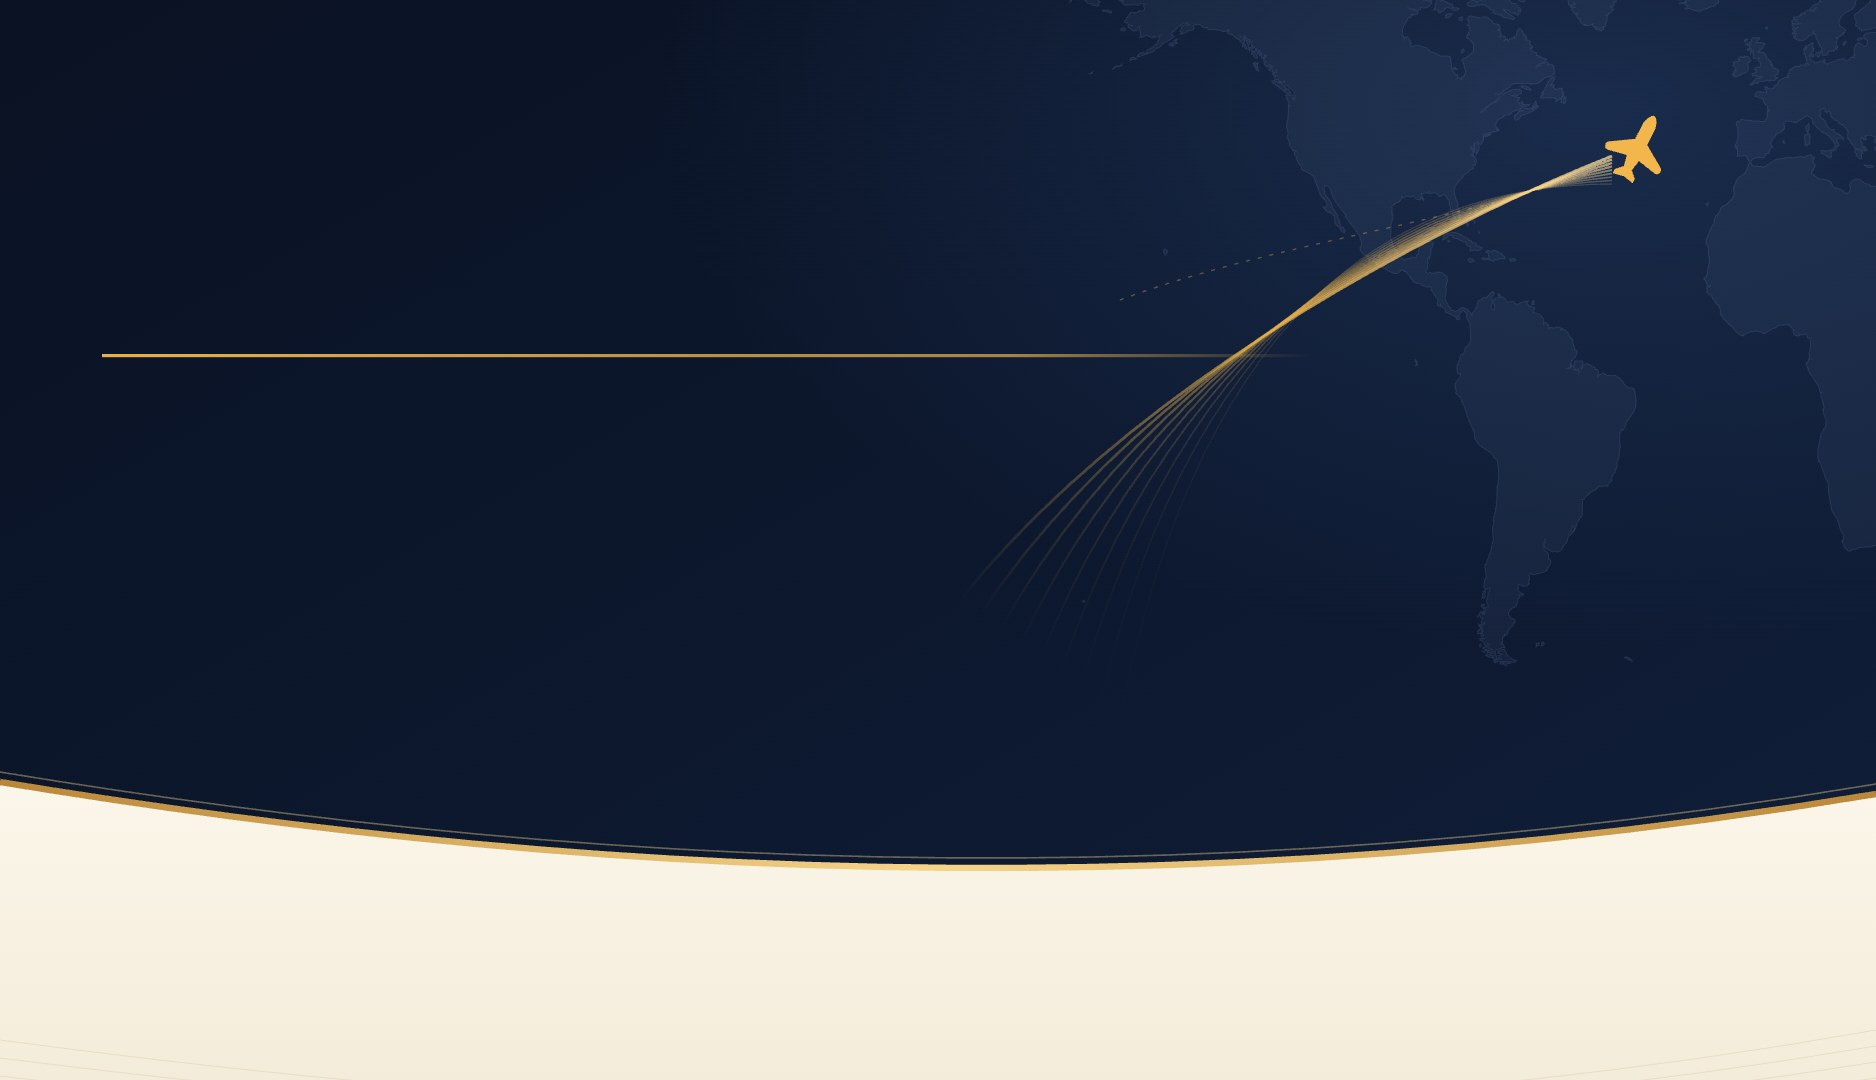
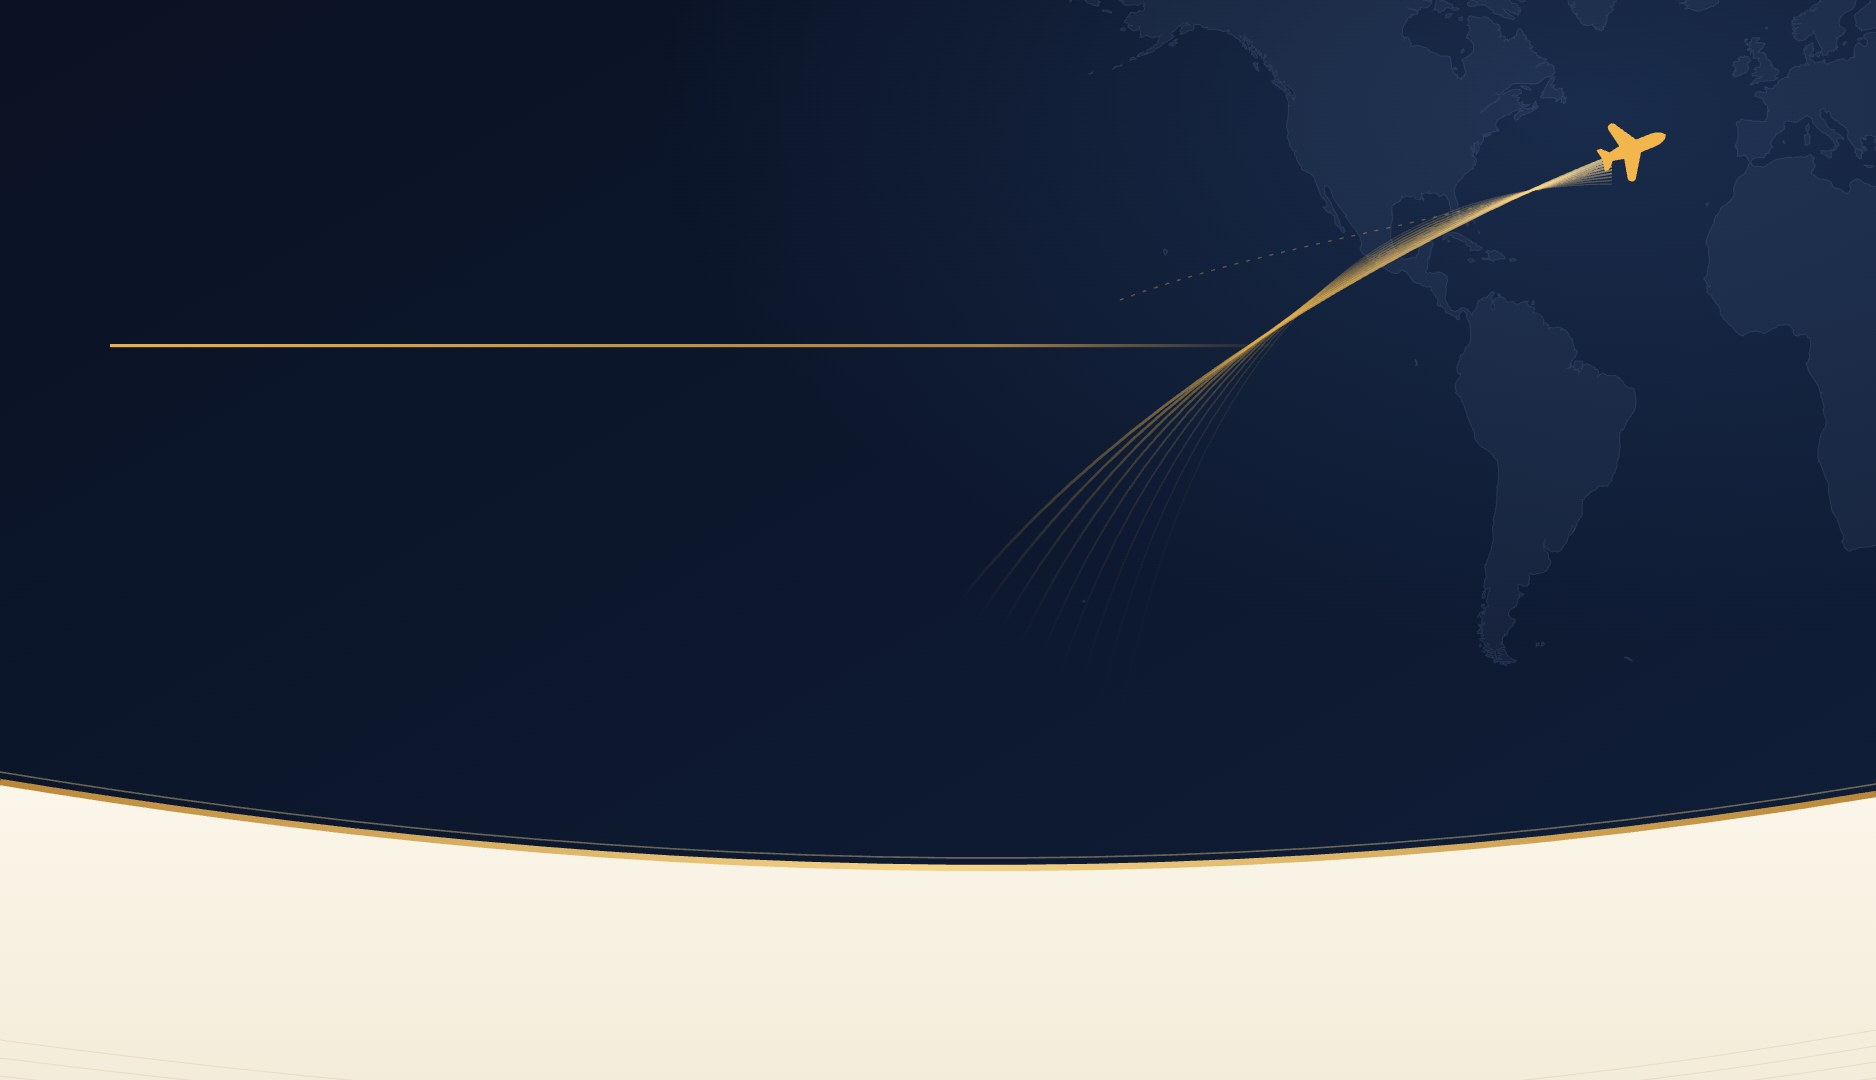
latest ui

Changed region(s): [[0.0618, 0.3056, 0.6493, 0.3361], [0.8348, 0.0917, 0.8966, 0.1833]]

diff --git a/BrightP/src/portal/portal.css b/BrightP/src/portal/portal.css
@@ -1145,18 +1145,6 @@
 .bwc-l-valid { left: calc(var(--u) * 67.9); top: calc(var(--u) * 42.7); font-size: calc(var(--u) * 1.6); letter-spacing: 0.26em; }
 .bwc-valid { left: calc(var(--u) * 67.9); top: calc(var(--u) * 45.2); font-size: calc(var(--u) * 3.9); line-height: 1; letter-spacing: 0.02em; font-variant-numeric: lining-nums; }
 
-.bwc-heading { left: calc(var(--u) * 5.1); top: calc(var(--u) * 19.2); font: 700 calc(var(--u) * 4)/1.1 'Source Serif 4', Georgia, serif; letter-spacing: 0.015em; color: #ecbe62; white-space: nowrap; }
-.bwc-ben { top: calc(var(--u) * 26.2); text-align: center; font-family: 'Source Serif 4', Georgia, serif; }
-.bwc-ben span { display: block; width: calc(var(--u) * 5.4); height: calc(var(--u) * 5.4); margin: 0 auto calc(var(--u) * 1.4); color: #e8b04a; }
-.bwc-ben span svg { width: 100%; height: 100%; }
-.bwc-ben b { display: block; font: 500 calc(var(--u) * 2.2)/1.15 'Source Serif 4', Georgia, serif; color: #fff; white-space: nowrap; }
-.bwc-ben small { display: block; margin-top: calc(var(--u) * 0.15); font: 400 calc(var(--u) * 1.7)/1.2 'Source Serif 4', Georgia, serif; color: #cfd4df; white-space: nowrap; }
-.bwc-ben.b0 { left: calc(var(--u) * 5.1); width: calc(var(--u) * 17.5); } .bwc-ben.b1 { left: calc(var(--u) * 22.6); width: calc(var(--u) * 21.7); } .bwc-ben.b2 { left: calc(var(--u) * 44.3); width: calc(var(--u) * 21.2); }
-.bwc-div { top: calc(var(--u) * 26.6); width: calc(var(--u) * 0.1); min-width: 1px; height: calc(var(--u) * 12.2); background: linear-gradient(180deg, transparent, #c9953e 20%, #c9953e 80%, transparent); }
-.bwc-div.d1 { left: calc(var(--u) * 22.6); } .bwc-div.d2 { left: calc(var(--u) * 44.3); }
-.bwc-qr { left: calc(var(--u) * 70.2); top: calc(var(--u) * 16.4); width: calc(var(--u) * 20.5); height: calc(var(--u) * 20.5); padding: calc(var(--u) * 1.5); border-radius: calc(var(--u) * 2.8); background: #fff; display: grid; place-items: center; box-shadow: 0 calc(var(--u) * 0.4) calc(var(--u) * 1.6) rgba(0, 0, 0, 0.25); }
-.bwc-qr img { width: 100%; height: 100%; display: block; image-rendering: pixelated; }
-.bwc-scan { left: calc(var(--u) * 67.4); width: calc(var(--u) * 26); white-space: nowrap; top: calc(var(--u) * 38.4); text-align: center; font: 400 calc(var(--u) * 1.75)/1.2 'Source Serif 4', Georgia, serif; color: #fff; }
 .bwc-dash { left: calc(var(--u) * 44.7); top: calc(var(--u) * 46.4); width: calc(var(--u) * 4.6); height: calc(var(--u) * 0.22); background: #d29f48; }
 .bwc-help { left: 0; right: 0; top: calc(var(--u) * 48.2); text-align: center; font: 400 calc(var(--u) * 2.4)/1.2 'Source Serif 4', Georgia, serif; color: #12233f; }
 @media (max-width: 420px) { .bwc { border-radius: calc(var(--u) * 2.4); } }
@@ -1186,3 +1174,28 @@
 .dh-trip-info span { font-size: 13.5px; color: var(--pt-muted); }
 .dh-trip-end { display: flex; align-items: center; gap: 10px; color: var(--pt-muted); }
 @media (max-width: 1100px) { .dh-trip-row { grid-template-columns: 96px minmax(0, 1fr); } .dh-trip-end { grid-column: 2; } }
+
+/* ---- flip card (Home) ---- */
+.bwc-flip { position: relative; perspective: 1600px; }
+.bwc-flip-inner { position: relative; transform-style: preserve-3d; transition: transform 0.7s cubic-bezier(0.4, 0.2, 0.2, 1); cursor: pointer; }
+.bwc-flip.flipped .bwc-flip-inner { transform: rotateY(180deg); }
+.bwc-flip-face { -webkit-backface-visibility: hidden; backface-visibility: hidden; }
+.bwc-flip-back { position: absolute; inset: 0; transform: rotateY(180deg); }
+.bwc-flip-back .bwc { height: 100%; }
+.bwc-flip-btn { position: absolute; right: 10px; top: 10px; z-index: 5; display: inline-flex; align-items: center; gap: 6px; padding: 7px 12px; border-radius: 999px; border: 1px solid rgba(255, 255, 255, 0.35); background: rgba(10, 24, 48, 0.72); color: #fff; font: 600 12px var(--font-family-base, sans-serif); cursor: pointer; backdrop-filter: blur(6px); }
+.bwc-flip-btn:hover { background: rgba(10, 24, 48, 0.9); }
+.bwc-flip-btn:focus-visible { outline: 2px solid var(--pt-gold); outline-offset: 2px; }
+@media (prefers-reduced-motion: reduce) { .bwc-flip-inner { transition: none; } }
+
+/* ---- membership card back: a strict grid so columns, dividers, QR and caption line up ---- */
+.bwc-heading { left: calc(var(--u) * 5.5); top: calc(var(--u) * 18.4); font: 700 calc(var(--u) * 4)/1.1 'Source Serif 4', Georgia, serif; letter-spacing: 0.015em; color: #ecbe62; white-space: nowrap; }
+.bwc-bens { left: calc(var(--u) * 5.5); top: calc(var(--u) * 25.2); width: calc(var(--u) * 58.5); display: grid; grid-template-columns: repeat(3, 1fr); text-align: center; font-family: 'Source Serif 4', Georgia, serif; }
+.bwc-ben { padding: 0 calc(var(--u) * 0.8); display: flex; flex-direction: column; align-items: center; }
+.bwc-ben + .bwc-ben { border-left: 1px solid rgba(201, 149, 62, 0.6); }
+.bwc-ben span { display: block; width: calc(var(--u) * 5); height: calc(var(--u) * 5); margin-bottom: calc(var(--u) * 1.3); color: #e8b04a; }
+.bwc-ben span svg { width: 100%; height: 100%; }
+.bwc-ben b { display: block; font: 500 calc(var(--u) * 2.05)/1.2 'Source Serif 4', Georgia, serif; color: #fff; white-space: nowrap; }
+.bwc-ben small { display: block; margin-top: calc(var(--u) * 0.3); font: 400 calc(var(--u) * 1.6)/1.2 'Source Serif 4', Georgia, serif; color: #cfd4df; white-space: nowrap; }
+.bwc-qr { left: calc(var(--u) * 69.3); top: calc(var(--u) * 16); width: calc(var(--u) * 19); height: calc(var(--u) * 19); padding: calc(var(--u) * 1.4); border-radius: calc(var(--u) * 2.6); background: #fff; display: grid; place-items: center; box-shadow: 0 calc(var(--u) * 0.4) calc(var(--u) * 1.6) rgba(0, 0, 0, 0.25); }
+.bwc-qr img { width: 100%; height: 100%; display: block; image-rendering: pixelated; }
+.bwc-scan { left: calc(var(--u) * 66.3); width: calc(var(--u) * 25); top: calc(var(--u) * 36.1); text-align: center; white-space: nowrap; font: 400 calc(var(--u) * 1.55)/1.2 'Source Serif 4', Georgia, serif; color: #fff; }

diff --git a/BrightP/src/portal/MembershipCard.js b/BrightP/src/portal/MembershipCard.js
@@ -1,13 +1,13 @@
 import React, { useEffect, useLayoutEffect, useRef, useState } from 'react';
 import QRCode from 'qrcode';
 import { toPng } from 'html-to-image';
-import { Database, Plane, Star } from 'lucide-react';
+import { Database, Plane, RefreshCw, Star } from 'lucide-react';
 import BrightLogo from '../assets/BrightLogo.png';
 import frontArt from '../assets/card-front.jpg';
 import backArt from '../assets/card-back.jpg';
 
 /*
- * Bright Wings membership card, front and back. Everything on it comes from the member record
+ * Bright Wings membership car, front and back. Everything on it comes from the member record
  * (/loyalty/summary → card): name, membership code, tier and validity; the QR code points at the
  * public verification page (/card/<code>). Sizes are in em with 1 unit (--u) = 1/93.8 of the card width, so the
  * card scales to any container (and downloadCardImage captures it exactly as shown).
@@ -28,12 +28,6 @@ function useCardFontSize(ref) {
     return () => ro.disconnect();
   }, [ref]);
   return size;
-}
-
-/** "AA0SLV1752" → "AA0 SLV 1752" (initials+age, tier code, 4-digit number). */
-export function formatMemberCode(code = '') {
-  const m = /^(.*?)([A-Z]{3})(\d{4})$/.exec(code);
-  return m && m[1] ? `${m[1]} ${m[2]} ${m[3]}` : code;
 }
 
 export const formatValidThru = (date) => {
@@ -60,10 +54,10 @@ export function CardFront({ name, code, tier = 'Member', validUntil }) {
       <small className="bwc-label bwc-l-name">MEMBER NAME</small>
       <div className="bwc-name">{name || '—'}</div>
       <small className="bwc-label bwc-l-code">MEMBERSHIP CODE</small>
-      <div className="bwc-code">{formatMemberCode(code) || '—'}</div>
+      <div className="bwc-code">{code || '—'}</div>
       <i className="bwc-rule" />
       <div className="bwc-tier">{tier === 'Member' ? 'MEMBER' : `${String(tier).toUpperCase()} MEMBER`}</div>
-      <small className="bwc-label bwc-l-valid">VALID THRU</small>
+      <small className="bwc-label bwc-l-valid">VALID TO</small>
       <div className="bwc-valid">{formatValidThru(validUntil)}</div>
     </div>
   );
@@ -87,14 +81,15 @@ export function CardBack({ code }) {
     <div ref={ref} className="bwc bwc-back" style={{ backgroundImage: `url(${backArt})`, '--u': size ? `${size}px` : undefined }} role="img" aria-label="Bright Wings membership benefits and verification QR code">
       <Brand className="back" />
       <h3 className="bwc-heading">MEMBERSHIP BENEFITS</h3>
-      {BENEFITS.map(([Icon, title, sub], i) => (
-        <div key={title} className={`bwc-ben b${i}`}>
-          <span><Icon size="100%" strokeWidth={1.35} /></span>
-          <b>{title}</b>
-          <small>{sub}</small>
-        </div>
-      ))}
-      <i className="bwc-div d1" /><i className="bwc-div d2" />
+      <div className="bwc-bens">
+        {BENEFITS.map(([Icon, title, sub]) => (
+          <div key={title} className="bwc-ben">
+            <span><Icon size="100%" strokeWidth={1.35} /></span>
+            <b>{title}</b>
+            <small>{sub}</small>
+          </div>
+        ))}
+      </div>
       <div className="bwc-qr">{qr ? <img src={qr} alt="Membership QR code" /> : null}</div>
       <small className="bwc-scan">Scan to verify membership</small>
       <i className="bwc-dash" />
@@ -123,4 +118,21 @@ export async function downloadCardImage(node, filename) {
   a.href = url;
   a.download = filename;
   a.click();
+}
+
+/** Front and back of the card in one place, with a button that turns it over (used on the Home page). */
+export function FlippableCard({ name, code, tier, validUntil, onOpen }) {
+  const [flipped, setFlipped] = useState(false);
+  return (
+    <div className={`bwc-flip ${flipped ? 'flipped' : ''}`}>
+      <div className="bwc-flip-inner" onClick={onOpen} role={onOpen ? 'link' : undefined} tabIndex={onOpen ? 0 : undefined}
+        onKeyDown={onOpen ? (e) => { if (e.key === 'Enter') onOpen(); } : undefined} aria-label={onOpen ? 'Open membership card' : undefined}>
+        <div className="bwc-flip-face" aria-hidden={flipped}><CardFront name={name} code={code} tier={tier} validUntil={validUntil} /></div>
+        <div className="bwc-flip-face bwc-flip-back" aria-hidden={!flipped}><CardBack code={code} /></div>
+      </div>
+      <button type="button" className="bwc-flip-btn" aria-pressed={flipped} onClick={(e) => { e.stopPropagation(); setFlipped((f) => !f); }}>
+        <RefreshCw size={15} /> {flipped ? 'Show front' : 'Flip card'}
+      </button>
+    </div>
+  );
 }

diff --git a/BrightP/src/portal/desktop/Home.js b/BrightP/src/portal/desktop/Home.js
@@ -7,7 +7,7 @@ import { api } from '../../services/api';
 import { Badge, Page, Progress, Shell, Skeleton, bg, fmtDate, fmtNum, memberName, useAsync, tierTitle } from '../ui';
 import { PHOTO, photoFor } from '../photos';
 import { bookingTitle, isPast, serviceOf, statusMeta } from '../booking';
-import { MemberCardFace } from '../customer/parts';
+import { FlippableMemberCard } from '../customer/parts';
 import { OffersStrip } from '../customer/Offers';
 import { fmtRange } from './common';
 
@@ -80,14 +80,14 @@ export default function DeskHome() {
               <div className="pt-row between pt-small" style={{ marginTop: 10, color: 'var(--pt-navy)', fontWeight: 600 }}><span>{fmtNum(lifetime)} Wings</span>{tier.next_threshold && <span>{fmtNum(tier.next_threshold)} Wings</span>}</div></div>
           </div>
 
-          <button type="button" className="dh-card-link" onClick={() => navigate('/membership')} aria-label="Open membership card">
-            <MemberCardFace name={summary?.card?.name || name} code={summary?.card?.membership_code || userData?.membershipCode} tier={tier.current} validUntil={summary?.card?.valid_until} />
-          </button>
+          <div className="dh-card-link">
+            <FlippableMemberCard name={summary?.card?.name || name} code={summary?.card?.membership_code || userData?.membershipCode} tier={tier.current} validUntil={summary?.card?.valid_until} onOpen={() => navigate('/membership')} />
+          </div>
         </section>
 
         <section className="dh-row2">
           <div className="pt-card dh-trip">
-            <div className="pt-row between"><h2 className="dh-sec"><Plane size={20} /> {trips.length ? 'Your trips' : 'Your next trip'}</h2>{trips.length > 0 && <button type="button" className="dh-more" onClick={() => navigate('/bookings')}>View all bookings <ChevronRight size={14} /></button>}</div>
+            <div className="pt-row between"><h2 className="dh-sec"><Plane size={20} /> {trips.length ? 'Your trips' : 'Your next trip'}</h2>{trips.length > 0 && <span className="pt-row" style={{ gap: 14 }}><button type="button" className="dh-more" onClick={() => navigate('/bookings')}>View all bookings <ChevronRight size={14} /></button><button type="button" className="pt-gold-btn sm" onClick={() => navigate('/bookings/new')}>Request new travel</button></span>}</div>
             {trips.length ? (
               <ul className="dh-trips">
                 {trips.map((b) => {
@@ -113,7 +113,7 @@ export default function DeskHome() {
                 })}
               </ul>
             ) : (
-              <div className="dh-empty"><p>No trips yet. Request your first quote in a couple of minutes.</p><button type="button" className="pt-gold-btn sm" onClick={() => navigate('/bookings/new')}>Request trip</button></div>
+              <div className="dh-empty"><p>No trips yet. Request your first quote in a couple of minutes.</p><button type="button" className="pt-gold-btn sm" onClick={() => navigate('/bookings/new')}>Request new travel</button></div>
             )}
           </div>
 

diff --git a/BrightP/src/portal/customer/parts.js b/BrightP/src/portal/customer/parts.js
@@ -2,7 +2,7 @@ import React from 'react';
 import { ChevronRight, Crown, Gem, Medal, Star, Users } from 'lucide-react';
 import { fileUrl } from '../../services/storage';
 import { Badge, fmtNum } from '../ui';
-import { CardFront } from '../MembershipCard';
+import { CardFront, FlippableCard } from '../MembershipCard';
 import { PHOTO, SERVICE_PHOTO, photoFor } from '../photos';
 import { bookingSubtitle, bookingTitle, serviceOf, statusMeta, TIERS } from '../booking';
 
@@ -68,6 +68,11 @@ export function BookingCard({ booking, onClick, showId = true }) {
 
 /** Dark membership card with QR (Membership card screen & home). */
 /** The membership card front (see MembershipCard.js). `validUntil` is the card's ISO date from the API. */
+/** The card with a flip button (Home page). */
+export function FlippableMemberCard({ name, code, tier = 'Member', validUntil, onOpen }) {
+  return <FlippableCard name={name} code={code} tier={tier} validUntil={validUntil} onOpen={onOpen} />;
+}
+
 export function MemberCardFace({ name, code, tier = 'Member', validUntil }) {
   return <CardFront name={name} code={code} tier={tier} validUntil={validUntil} />;
 }

diff --git a/BrightP/src/portal/customer/Home.js b/BrightP/src/portal/customer/Home.js
@@ -62,13 +62,13 @@ export function MobileHome() {
       {bookingsLoading && !upcoming ? <Skeleton h={92} r={14} /> : upcoming ? (
         <>
           <BookingCard booking={upcoming} onClick={() => navigate(`/bookings/${upcoming.docId}`)} />
-          <button type="button" className="pt-btn full" style={{ marginTop: 12 }} onClick={() => navigate('/bookings/new')}><Plane size={17} /> Request trip</button>
+          <button type="button" className="pt-btn full" style={{ marginTop: 12 }} onClick={() => navigate('/bookings/new')}><Plane size={17} /> Request new travel</button>
         </>
       ) : (
         <div className="pt-notice plain" style={{ alignItems: 'center' }}>
           <Plane size={18} />
           <div style={{ flex: 1 }}>No trips planned yet. Request your first quote in a minute.</div>
-          <button type="button" className="pt-btn xs" onClick={() => navigate('/bookings/new')}>Request trip</button>
+          <button type="button" className="pt-btn xs" onClick={() => navigate('/bookings/new')}>Request new travel</button>
         </div>
       )}
     </Card>

diff --git a/BrightP/src/App.test.js b/BrightP/src/App.test.js
@@ -1,7 +1,7 @@
 import { render, screen } from '@testing-library/react';
 import App from './App';
 
-test('renders the public Bright Wings landing page', () => {
+test('Renders the public Bright Wings landing page', () => {
   render(<App />);
   expect(screen.getByRole('heading', { level: 1 }).textContent).toMatch(/Your next journey/i);
   expect(screen.getAllByText(/Join/i).length).toBeGreaterThan(0);

diff --git a/backend/src/app/src/routers/cards.rs b/backend/src/app/src/routers/cards.rs
@@ -1,5 +1,5 @@
 use actix_web::web::{self, ServiceConfig};
-use chrono::{DateTime, Datelike, NaiveDate, Utc};
+use chrono::{DateTime, Months, NaiveDate, Utc};
 use serde::Serialize;
 use sqlx::PgPool;
 
@@ -14,9 +14,10 @@ pub struct PublicCardDTO {
     pub valid_until: NaiveDate,
 }
 
-/// Cards stay valid through the end of the next calendar year.
-pub fn card_valid_until() -> NaiveDate {
-    NaiveDate::from_ymd_opt(Utc::now().year() + 1, 12, 31).expect("valid calendar date")
+/// A card is valid for one year from the day the membership was created.
+pub fn card_valid_until(joined_at: DateTime<Utc>) -> NaiveDate {
+    let created = joined_at.date_naive();
+    created.checked_add_months(Months::new(12)).unwrap_or(created)
 }
 
 /// Public (NO auth) membership-card lookup by code. This is what the card QR
@@ -44,7 +45,7 @@ async fn public_card_handler(
                 .to_string(),
             membership_tier: r.membership_tier,
             member_since: r.joined_at,
-            valid_until: card_valid_until(),
+            valid_until: card_valid_until(r.joined_at),
         })),
         None => Err(ApiError::new("Card not found", 404)),
     }
@@ -52,4 +53,19 @@ async fn public_card_handler(
 
 pub fn cards_routes(cfg: &mut ServiceConfig) {
     cfg.service(web::scope("/cards").route("/{code}", web::get().to(public_card_handler)));
+}
+
+#[cfg(test)]
+mod tests {
+    use super::*;
+    use chrono::TimeZone;
+
+    #[test]
+    fn card_is_valid_for_one_year_from_creation() {
+        let day = |y, m, d| Utc.with_ymd_and_hms(y, m, d, 10, 30, 0).unwrap();
+        assert_eq!(card_valid_until(day(2026, 10, 20)), NaiveDate::from_ymd_opt(2027, 10, 20).unwrap());
+        assert_eq!(card_valid_until(day(2027, 1, 1)), NaiveDate::from_ymd_opt(2028, 1, 1).unwrap());
+        // 29 February rolls to the last day of February the next year.
+        assert_eq!(card_valid_until(day(2028, 2, 29)), NaiveDate::from_ymd_opt(2029, 2, 28).unwrap());
+    }
 }

diff --git a/backend/src/app/src/routers/loyalty.rs b/backend/src/app/src/routers/loyalty.rs
@@ -143,7 +143,7 @@ fn card_from(member: &MemberRow) -> LoyaltyCardDTO {
         name: member.name.clone(),
         membership_tier: member.membership_tier.clone(),
         member_since: member.joined_at,
-        valid_until: super::cards::card_valid_until(),
+        valid_until: super::cards::card_valid_until(member.joined_at),
         verification_path: format!("/cards/{}", member.membership_code),
     }
 }
